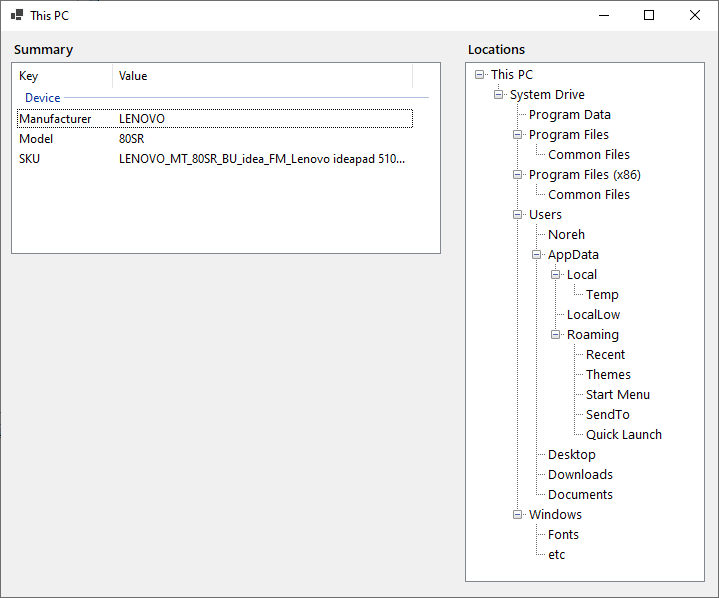
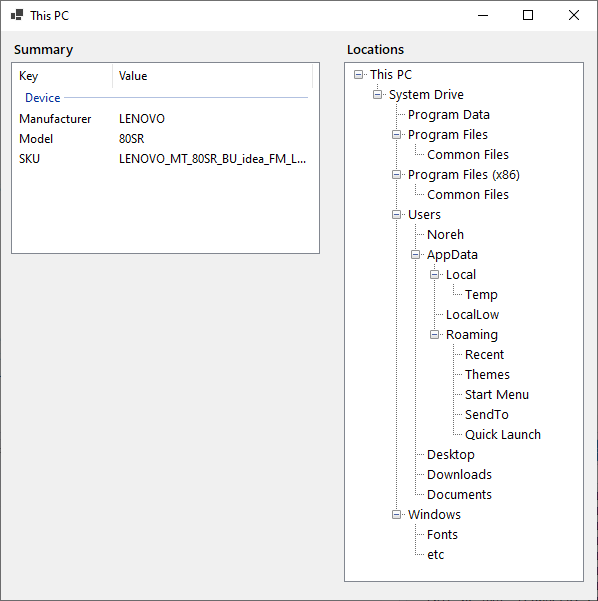
get device info & bound window width

diff --git a/Summary.cs b/Summary.cs
@@ -1,18 +1,47 @@
-using System.Text.RegularExpressions;
+using Microsoft.Management.Infrastructure;
+using Microsoft.Management.Infrastructure.Options;
 
 public static class Summary
 {
 
     public static void PopulateListView(ListView listView)
     {
+        string? manufacturer = null;
+        string? model = null;
+        string? sku = null;
+
+        try
+        {
+            CimSession cimSession = CimSession.Create(null);
+            var query = "SELECT * FROM Win32_ComputerSystem";
+            var queryOptions = new CimOperationOptions { Timeout = TimeSpan.FromSeconds(2) };
+            var results = cimSession.QueryInstances("root/cimv2", "WQL", query, queryOptions);
+            CimInstance? result = null;
+            if (results.Any())
+            {
+                result = results.First();
+            }
+            if (result != null)
+            {
+                manufacturer = result.CimInstanceProperties["Manufacturer"].Value.ToString();
+                model = result.CimInstanceProperties["Model"].Value.ToString();
+                sku = result.CimInstanceProperties["SystemSKUNumber"].Value.ToString();
+            }
+            cimSession.Dispose();
+        }
+        catch (Exception ex)
+        {
+            //Logger.error(ex.Message);
+        }
+
         ListViewGroup listViewGroup1 = new ListViewGroup("Device", HorizontalAlignment.Left);
         listViewGroup1.Header = "Device";
         listViewGroup1.Name = "listViewGroup1";
         listView.Groups.AddRange(new ListViewGroup[] { listViewGroup1 });
 
-        ListViewItem listViewItem1 = new ListViewItem(new string[] {"Manufacturer", "LENOVO"}, -1);
-        ListViewItem listViewItem2 = new ListViewItem(new string[] {"Model", "80SR"}, -1);
-        ListViewItem listViewItem3 = new ListViewItem(new string[] {"SKU", "LENOVO_MT_80SR_BU_idea_FM_Lenovo ideapad 510-15ISK"}, -1);
+        ListViewItem listViewItem1 = new ListViewItem(new string[] {"Manufacturer", manufacturer ?? ""}, -1);
+        ListViewItem listViewItem2 = new ListViewItem(new string[] {"Model", model ?? "" }, -1);
+        ListViewItem listViewItem3 = new ListViewItem(new string[] {"SKU", sku ?? "" }, -1);
 
         listViewItem1.Group = listViewGroup1;
         listViewItem2.Group = listViewGroup1;

diff --git a/Form1.Designer.cs b/Form1.Designer.cs
@@ -130,6 +130,8 @@
             this.AutoScaleMode = System.Windows.Forms.AutoScaleMode.Font;
             this.ClientSize = new System.Drawing.Size(596, 569);
             this.Controls.Add(this.splitContainer1);
+            this.MaximumSize = new System.Drawing.Size(800, 608);
+            this.MinimumSize = new System.Drawing.Size(612, 608);
             this.Name = "Form1";
             this.StartPosition = System.Windows.Forms.FormStartPosition.CenterScreen;
             this.Text = "This PC";
